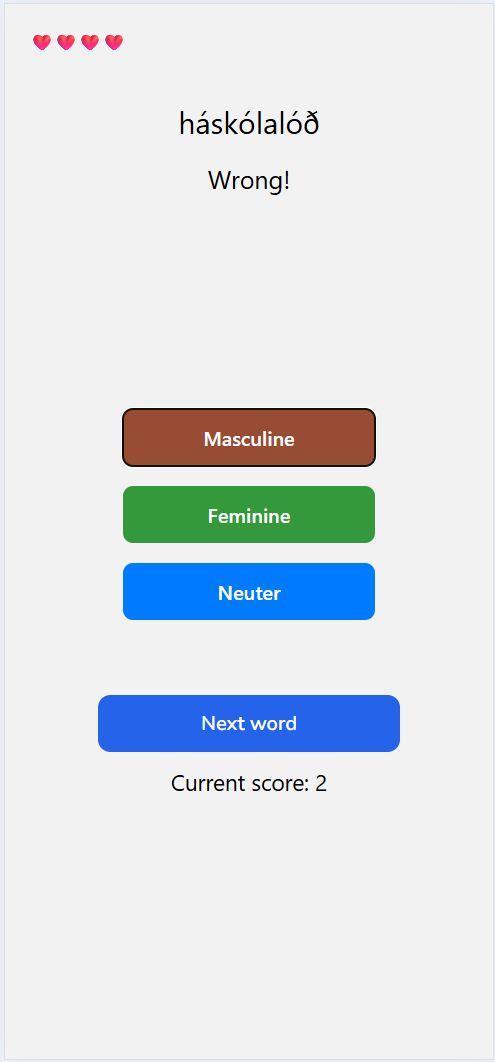
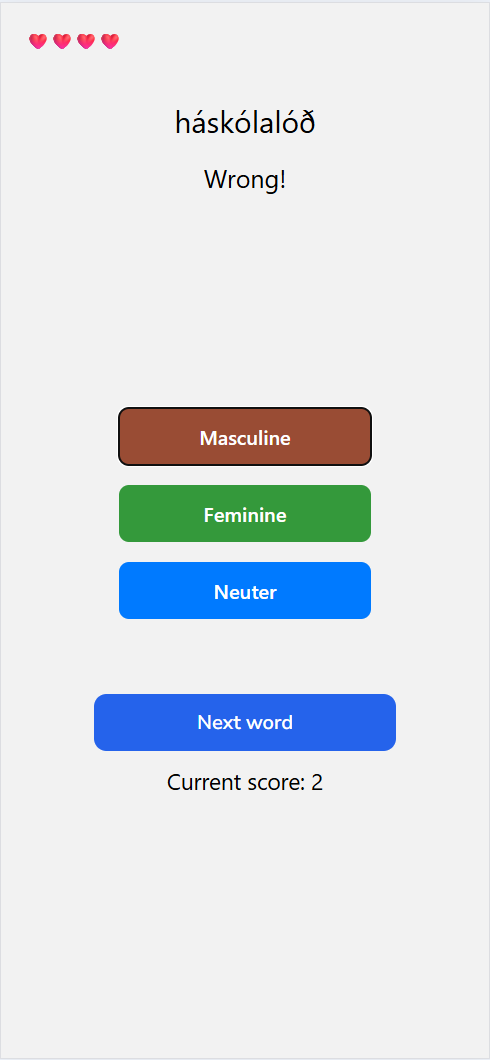
Some fixes for readme

diff --git a/README.md b/README.md
@@ -7,11 +7,7 @@ Built with React Native, Expo, TypeScript, Supabase and PostgreSQL.
 
 [Open the live demo](https://icelandic-grammar.netlify.app/)
 
-<p align="center">
-  <img src="images/home.png" alt="Home screen" width="250"/>&nbsp;&nbsp;
-  <img src="images/leaderboards.png" alt="Global leaderboard" width="250"/>&nbsp;&nbsp;
-  <img src="images/game.png" alt="Noun gender game" width="252"/>
-</p>
+<p align="center"><img src="images/home.png" alt="Home screen" width="30%" /> <img src="images/leaderboards.png" alt="Global leaderboard" width="30%" /> <img src="images/game.png" alt="Noun gender game" width="30%" /></p>
 
 ## About the project
 
